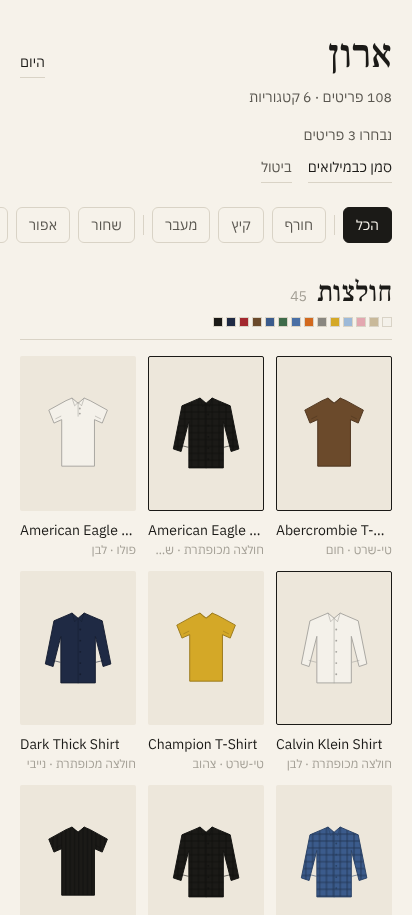
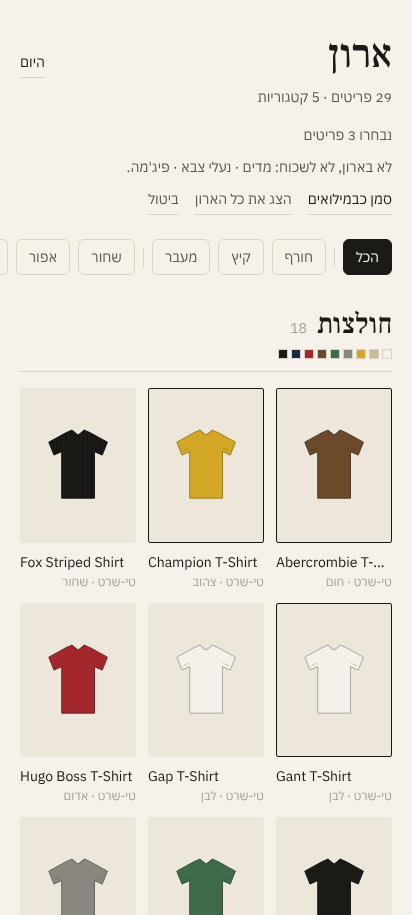
Send worn items to the laundry by wear count, and focus the reserve picker
Migration 0003 adds items.washed_at and wear_counts_since_wash(); each kind of
garment goes to the wash after its own number of wears (config.ts).

Claude-Session: https://claude.ai/code/session_01HdCAWD43ESY6bThfPpJQDs

diff --git a/apps/mobile/src/data/useFeedback.ts b/apps/mobile/src/data/useFeedback.ts
@@ -1,5 +1,5 @@
-import { applyPairUpdates, feedbackUpdates, type PairWeights } from "@fit-check/engine";
-import type { CandidateOutfit, WearFeedback } from "@fit-check/schema";
+import { applyPairUpdates, dueForLaundry, feedbackUpdates, type PairWeights } from "@fit-check/engine";
+import type { Availability, CandidateOutfit, Item, WearFeedback } from "@fit-check/schema";
 import { useCallback, useEffect, useMemo, useRef, useState } from "react";
 import type { WardrobeData } from "./wardrobe";
 import type { DayType } from "./dayContext";
@@ -8,8 +8,10 @@ import {
   deleteFeedback,
   EMPTY_HISTORY,
   fetchFeedback,
+  fetchWearCounts,
   recordFeedback,
   savePairWeights,
+  setAvailabilityMany,
   type FeedbackHistory,
   type TodayRecord,
 } from "./feedback";
@@ -19,7 +21,12 @@ export type FeedbackActions = {
   skip: (outfit: CandidateOutfit, source: "daily" | "swap") => Promise<void>;
   dislike: (record: TodayRecord) => Promise<void>;
   undo: (record: TodayRecord) => Promise<void>;
+  /** Overrides the automatic laundry move: the items stay home and keep their wear count. */
+  keepHome: (itemIds: string[]) => Promise<void>;
 };
+
+/** Items the last "wearing" sent to the laundry, so Today can name them and offer to keep them home. */
+export type Laundered = { wearId: string; itemIds: string[] };
 
 export type FeedbackState = {
   /** null until the first load lands; Today waits for it so a worn outfit never flashes as a fresh suggestion. */
@@ -27,6 +34,7 @@ export type FeedbackState = {
   busy: boolean;
   /** The last action failed; the screen says so and nothing changed. */
   failed: boolean;
+  laundered: Laundered | null;
   actions: FeedbackActions;
 };
 
@@ -43,10 +51,16 @@ export function useFeedback(args: {
   userId: string;
   date: string;
   dayType: DayType;
+  items: Item[];
   pairWeights: PairWeights;
   patch: (fn: (data: WardrobeData) => WardrobeData) => void;
 }): FeedbackState {
-  const { userId, date, dayType, pairWeights, patch } = args;
+  const { userId, date, dayType, items, pairWeights, patch } = args;
+  const [laundered, setLaundered] = useState<Laundered | null>(null);
+  const itemsRef = useRef(items);
+  useEffect(() => {
+    itemsRef.current = items;
+  }, [items]);
   // Stored with the date it belongs to, so a new day reads as "not loaded" without resetting state in an effect.
   const [loaded, setLoaded] = useState<{ date: string; history: FeedbackHistory } | null>(null);
   const history = loaded?.date === date ? loaded.history : null;
@@ -96,6 +110,28 @@ export function useFeedback(args: {
     [userId, patch]
   );
 
+  const move = useCallback(
+    async (ids: string[], next: Availability) => {
+      if (ids.length === 0) return;
+      await setAvailabilityMany(ids, next);
+      const set = new Set(ids);
+      patch((d) => ({ ...d, items: d.items.map((i) => (set.has(i.id) ? { ...i, availability: next } : i)) }));
+    },
+    [patch]
+  );
+
+  /** After a wear: whatever reached its wash count goes to the laundry (engine dueForLaundry, config per kind). */
+  const launder = useCallback(
+    async (record: TodayRecord) => {
+      const counts = await fetchWearCounts(record.itemIds);
+      const worn = itemsRef.current.filter((i) => record.itemIds.includes(i.id));
+      const due = dueForLaundry(worn, counts).map((i) => i.id);
+      await move(due, "laundry");
+      setLaundered(due.length > 0 ? { wearId: record.wearId, itemIds: due } : null);
+    },
+    [move]
+  );
+
   const run = useCallback(async (fn: () => Promise<void>) => {
     setBusy(true);
     setFailed(false);
@@ -120,6 +156,8 @@ export function useFeedback(args: {
           }));
           // The wear is stored even if learning fails; the weights are a derived signal, the wear is the fact.
           await learn(record.itemIds, "worn", 1);
+          // A failed laundry move is logged, not shown: the wear itself succeeded and the user can move items by hand.
+          await launder(record).catch((error: unknown) => console.error("Automatic laundry failed", error));
         }),
       skip: (outfit, source) =>
         run(async () => {
@@ -144,10 +182,20 @@ export function useFeedback(args: {
             };
           });
           if (record.feedback !== "skipped") await learn(record.itemIds, record.feedback, -1);
+          // Undoing the wear undoes its laundry move too; the wash count is right again because the wear is gone.
+          if (laundered?.wearId === record.wearId) {
+            await move(laundered.itemIds, "home");
+            setLaundered(null);
+          }
+        }),
+      keepHome: (itemIds) =>
+        run(async () => {
+          await move(itemIds, "home");
+          setLaundered(null);
         }),
     }),
-    [run, learn, setHistory, userId, date, dayType]
+    [run, learn, launder, move, laundered, setHistory, userId, date, dayType]
   );
 
-  return { history, busy, failed, actions };
+  return { history, busy, failed, laundered, actions };
 }

diff --git a/apps/mobile/src/features/wardrobe/WardrobeView.tsx b/apps/mobile/src/features/wardrobe/WardrobeView.tsx
@@ -6,7 +6,7 @@ import { useSafeAreaInsets } from "react-native-safe-area-context";
 import { TextAction } from "../../components/TextAction";
 import { TextLink } from "../../components/TextLink";
 import { FilterChips } from "./FilterChips";
-import { applyFilters, deriveFacets, type Facet, type Selection } from "./filters";
+import { applyFilters, deriveFacets, isReserveItem, type Facet, type Selection } from "./filters";
 import { WardrobeGrid } from "./WardrobeGrid";
 import { layout } from "../../theme/tokens";
 
@@ -28,6 +28,7 @@ export function WardrobeView({ all, onMove }: { all: Item[]; onMove?: (ids: stri
   const [packing, setPacking] = useState(false);
   const [picked, setPicked] = useState<ReadonlySet<string>>(new Set());
   const [busy, setBusy] = useState(false);
+  const [packAll, setPackAll] = useState(false);
   const [failed, setFailed] = useState(false);
   const away = useMemo(() => all.filter((i) => i.availability === "away").map((i) => i.id), [all]);
 
@@ -52,6 +53,7 @@ export function WardrobeView({ all, onMove }: { all: Item[]; onMove?: (ids: stri
     });
   const stopPacking = () => {
     setPacking(false);
+    setPackAll(false);
     setPicked(new Set());
   };
   const insets = useSafeAreaInsets();
@@ -59,7 +61,10 @@ export function WardrobeView({ all, onMove }: { all: Item[]; onMove?: (ids: stri
   const [selection, setSelection] = useState<Selection>({});
 
   const facets = useMemo(() => deriveFacets(all), [all]);
-  const visible = useMemo(() => applyFilters(all, selection), [all, selection]);
+  const visible = useMemo(() => {
+    const filtered = applyFilters(all, selection);
+    return packing && !packAll ? filtered.filter(isReserveItem) : filtered;
+  }, [all, selection, packing, packAll]);
   const columns = width >= WIDE_BREAKPOINT ? 5 : 3;
   const groupCount = useMemo(() => new Set(visible.map((i) => i.tags.category)).size, [visible]);
 
@@ -93,11 +98,17 @@ export function WardrobeView({ all, onMove }: { all: Item[]; onMove?: (ids: stri
                   <Text className="font-body text-body-sm text-ink-soft">
                     {picked.size > 0 ? t("wardrobe.reserve.picked", { count: picked.size, n: ltr(picked.size) }) : t("wardrobe.reserve.pickHint")}
                   </Text>
+                  <Text className="font-body text-body-sm text-ink-soft">{t("wardrobe.reserve.notInWardrobe")}</Text>
                   <View className="flex-row flex-wrap" style={{ columnGap: 16, rowGap: 8 }}>
                     <TextAction
                       label={t("wardrobe.reserve.confirm")}
                       disabled={busy || picked.size === 0}
                       onPress={() => run([...picked], "away", stopPacking)}
+                    />
+                    <TextAction
+                      label={packAll ? t("wardrobe.reserve.showUsual") : t("wardrobe.reserve.showAll")}
+                      quiet
+                      onPress={() => setPackAll((v) => !v)}
                     />
                     <TextAction label={t("wardrobe.reserve.cancel")} quiet disabled={busy} onPress={stopPacking} />
                   </View>

diff --git a/apps/mobile/src/data/feedback.ts b/apps/mobile/src/data/feedback.ts
@@ -1,5 +1,6 @@
 import { RECENT_WEARS_DAYS, type PairUpdate } from "@fit-check/engine";
 import { WEAR_READ_COLUMNS, WearRowSchema, type Availability, type CandidateOutfit, type StylingRequest, type WearFeedback } from "@fit-check/schema";
+import { z } from "zod";
 import { supabase } from "../lib/supabase";
 import type { DayType } from "./dayContext";
 
@@ -127,18 +128,35 @@ export async function savePairWeights(userId: string, updates: readonly PairUpda
   if (error) throw error;
 }
 
+/**
+ * `washed`: the item came back clean, so its wear count restarts (items.washed_at). Not set when the user only
+ * overrides an automatic laundry move ("השאר בבית"): that garment was not washed and its count must keep going.
+ */
+type MoveOptions = { washed?: boolean };
+
+const moveRow = (availability: Availability, { washed = false }: MoveOptions) =>
+  washed ? { availability, washed_at: new Date().toISOString() } : { availability };
+
 /** Home, laundry, away (reserve duty) or lent. Only `home` items are ever suggested. */
-export async function setAvailability(itemId: string, availability: Availability): Promise<void> {
-  const { error } = await supabase.from("items").update({ availability }).eq("id", itemId);
+export async function setAvailability(itemId: string, availability: Availability, options: MoveOptions = {}): Promise<void> {
+  const { error } = await supabase.from("items").update(moveRow(availability, options)).eq("id", itemId);
   if (error) throw error;
+}
+
+/** Worn wears per item since its last wash (SQL function wear_counts_since_wash, migration 0003; RLS applies). */
+export async function fetchWearCounts(itemIds: readonly string[]): Promise<Map<string, number>> {
+  const { data, error } = await supabase.rpc("wear_counts_since_wash", { p_item_ids: [...itemIds] });
+  if (error) throw error;
+  const parsed = z.array(z.object({ item_id: z.string(), wears: z.number().int() })).parse(data ?? []);
+  return new Map(parsed.map((r) => [r.item_id, r.wears]));
 }
 
 /**
  * Moves several items at once (packing for reserve duty, coming back). One request, so the move is all or nothing
  * from the user's side: either every packed item reads "away" or the screen reports the failure.
  */
-export async function setAvailabilityMany(itemIds: readonly string[], availability: Availability): Promise<void> {
+export async function setAvailabilityMany(itemIds: readonly string[], availability: Availability, options: MoveOptions = {}): Promise<void> {
   if (itemIds.length === 0) return;
-  const { error } = await supabase.from("items").update({ availability }).in("id", [...itemIds]);
+  const { error } = await supabase.from("items").update(moveRow(availability, options)).in("id", [...itemIds]);
   if (error) throw error;
 }

diff --git a/apps/mobile/src/features/today/TodayView.tsx b/apps/mobile/src/features/today/TodayView.tsx
@@ -11,7 +11,7 @@ import { ItemArt } from "../../components/item-art/ItemArt";
 import { ActionSheet, type Adjust } from "./ActionSheet";
 import type { DayContext } from "../../data/dayContext";
 import type { FeedbackHistory } from "../../data/feedback";
-import type { FeedbackActions } from "../../data/useFeedback";
+import type { FeedbackActions, Laundered } from "../../data/useFeedback";
 import { explainOutfit } from "./explain";
 import { planToday, type Swaps } from "./outfit";
 import { OutfitComposition, outfitIndex, SLOT_ORDER } from "./OutfitComposition";
@@ -37,6 +37,7 @@ type Props = {
   actions: FeedbackActions;
   busy: boolean;
   failed: boolean;
+  laundered?: Laundered | null;
 };
 
 /** "Warmer", or "Warmer ×2" after two taps; null when that direction was not tapped. */
@@ -49,7 +50,7 @@ const ADJUST: Record<Adjust, DayAdjustment> = {
   casual: { temp_steps: 0, formality_steps: -1 },
 };
 
-export function TodayView({ items, pairWeights, day, history, actions, busy, failed }: Props) {
+export function TodayView({ items, pairWeights, day, history, actions, busy, failed, laundered }: Props) {
   const { t, i18n } = useTranslation();
   const router = useRouter();
   const insets = useSafeAreaInsets();
@@ -109,6 +110,18 @@ export function TodayView({ items, pairWeights, day, history, actions, busy, fai
     if (plan.kind === "worn") {
       const record = plan.record;
       lines.push({ key: "worn", text: t("today.status.worn"), links: [{ label: t("today.undo"), onPress: () => void actions.undo(record) }] });
+      if (laundered && laundered.wearId === record.wearId) {
+        const ids = laundered.itemIds;
+        const names = ids.map((id) => {
+          const sub = items.find((i) => i.id === id)?.tags.subcategory;
+          return sub ? t(`item.subcategory.${sub}`) : "";
+        });
+        lines.push({
+          key: "laundry",
+          text: t("today.status.laundry", { items: names.filter(Boolean).join(", ") }),
+          links: [{ label: t("today.keepHome"), onPress: () => void actions.keepHome(ids) }],
+        });
+      }
     }
     if (lastSkip) {
       const record = lastSkip;

diff --git a/packages/engine/src/laundry.test.ts b/packages/engine/src/laundry.test.ts
@@ -1,0 +1,36 @@
+import { describe, expect, it } from "vitest";
+import { ItemSchema, type Item } from "@fit-check/schema";
+import wardrobeJson from "../__fixtures__/wardrobe.json";
+import { dueForLaundry } from "./laundry";
+
+const wardrobe: Item[] = (wardrobeJson as unknown[]).map((row) => ItemSchema.parse(row));
+const first = (sub: string) => wardrobe.find((i) => i.tags.subcategory === sub)!;
+
+describe("dueForLaundry", () => {
+  const tee = first("tshirt");
+  const shirt = first("button_down");
+  const jeans = first("jeans");
+  const shoes = first("sneakers");
+
+  it("sends a T-shirt after one wear but keeps jeans and a button-down", () => {
+    const counts = new Map([[tee.id, 1], [shirt.id, 1], [jeans.id, 1]]);
+    expect(dueForLaundry([tee, shirt, jeans], counts).map((i) => i.id)).toEqual([tee.id]);
+  });
+
+  it("sends a button-down on its third wear and jeans on their sixth", () => {
+    expect(dueForLaundry([shirt], new Map([[shirt.id, 2]]))).toEqual([]);
+    expect(dueForLaundry([shirt], new Map([[shirt.id, 3]]))).toEqual([shirt]);
+    expect(dueForLaundry([jeans], new Map([[jeans.id, 5]]))).toEqual([]);
+    expect(dueForLaundry([jeans], new Map([[jeans.id, 6]]))).toEqual([jeans]);
+  });
+
+  it("never sends shoes, and treats a missing count as zero", () => {
+    expect(dueForLaundry([shoes], new Map([[shoes.id, 50]]))).toEqual([]);
+    expect(dueForLaundry([tee], new Map())).toEqual([]);
+  });
+
+  it("leaves items that are not at home where they are", () => {
+    const away = { ...tee, availability: "away" as const };
+    expect(dueForLaundry([away], new Map([[tee.id, 3]]))).toEqual([]);
+  });
+});

diff --git a/apps/mobile/src/features/wardrobe/filters.ts b/apps/mobile/src/features/wardrobe/filters.ts
@@ -54,3 +54,13 @@ export function groupByCategory(items: Item[]): Array<{ category: (typeof CATEGO
     items: items.filter((i) => i.tags.category === category).sort((a, b) => a.name.localeCompare(b.name) || a.id.localeCompare(b.id)),
   })).filter((g) => g.items.length > 0);
 }
+
+/**
+ * What usually goes to reserve duty (Roy, 2026-11-08): T-shirts, sportswear, slides. The picker shows these first;
+ * the rest of the wardrobe is one tap away. Uniform, army boots and pyjamas are not wardrobe items (not in the
+ * tag schema) and appear as a reminder line instead.
+ */
+export function isReserveItem(item: Item): boolean {
+  const { subcategory, style_tags } = item.tags;
+  return subcategory === "tshirt" || subcategory === "sandals" || style_tags.includes("sport");
+}

diff --git a/packages/engine/src/laundry.ts b/packages/engine/src/laundry.ts
@@ -1,0 +1,14 @@
+import type { Item } from "@fit-check/schema";
+import { LAUNDRY_AFTER_WEARS } from "./config";
+
+/**
+ * Items that should go to the wash, given how many times each was worn since its last wash (including the wear
+ * just logged). Only items currently at home move: one already in the laundry, away or lent is left alone.
+ * Ids missing from `wearCounts` are treated as zero wears, never as due.
+ */
+export function dueForLaundry(items: readonly Item[], wearCounts: ReadonlyMap<string, number>): Item[] {
+  return items.filter((item) => {
+    const limit = LAUNDRY_AFTER_WEARS[item.tags.subcategory];
+    return item.availability === "home" && limit !== undefined && (wearCounts.get(item.id) ?? 0) >= limit;
+  });
+}

diff --git a/apps/mobile/src/app/index.tsx b/apps/mobile/src/app/index.tsx
@@ -36,7 +36,7 @@ function Today(props: {
   day: DayContext;
 }) {
   const { userId, items, pairWeights, patch, day } = props;
-  const feedback = useFeedback({ userId, date: day.date, dayType: day.dayType, pairWeights, patch });
+  const feedback = useFeedback({ userId, date: day.date, dayType: day.dayType, items, pairWeights, patch });
   // Wait for today's answers so an outfit already marked worn never flashes as a fresh suggestion.
   if (!feedback.history) return <WardrobeGate state={{ status: "loading" }} />;
   return (
@@ -48,6 +48,7 @@ function Today(props: {
       actions={feedback.actions}
       busy={feedback.busy}
       failed={feedback.failed}
+      laundered={feedback.laundered}
     />
   );
 }

diff --git a/packages/engine/src/config.ts b/packages/engine/src/config.ts
@@ -32,6 +32,22 @@ export const FEEDBACK = {
  */
 export const ADJUST_STEP = { temp_c: 3, formality: 1 } as const;
 
+/**
+ * Wears before a garment goes to the wash (Roy's rules, 2026-11-08). Counted since the item's last wash.
+ * Button-downs get 3 because they are worn over an undershirt. Missing kinds (shoes, outerwear, belts) never go.
+ */
+export const LAUNDRY_AFTER_WEARS: Partial<Record<Subcategory, number>> = {
+  tshirt: 1,
+  polo: 1,
+  button_down: 3,
+  shorts: 2,
+  sweatshirt: 3,
+  knit: 4,
+  chinos: 4,
+  trousers: 4,
+  jeans: 6,
+};
+
 /** How far back worn outfits are read for freshness (RECENCY windows are inside this). */
 export const RECENT_WEARS_DAYS = 21;
 

diff --git a/apps/mobile/src/app/wardrobe.tsx b/apps/mobile/src/app/wardrobe.tsx
@@ -15,7 +15,8 @@ export default function Wardrobe() {
     const before = new Map(items.filter((i) => ids.includes(i.id)).map((i) => [i.id, i.availability]));
     patch((d) => ({ ...d, items: d.items.map((i) => (before.has(i.id) ? { ...i, availability: next } : i)) }));
     try {
-      await setAvailabilityMany(ids, next);
+      // The only bulk move home is "back from base, all clean", so it resets the wear counts.
+      await setAvailabilityMany(ids, next, { washed: next === "home" });
     } catch (error) {
       patch((d) => ({ ...d, items: d.items.map((i) => ({ ...i, availability: before.get(i.id) ?? i.availability })) }));
       throw error;

diff --git a/apps/mobile/src/app/item/[id].tsx b/apps/mobile/src/app/item/[id].tsx
@@ -44,7 +44,8 @@ export default function ItemScreen() {
     const set = (a: Availability) => patch((d) => ({ ...d, items: d.items.map((i) => (i.id === itemId ? { ...i, availability: a } : i)) }));
     set(next);
     try {
-      await setAvailability(itemId, next);
+      // Back home from the laundry or from base means it was washed: its wear count starts over.
+      await setAvailability(itemId, next, { washed: next === "home" && (prev === "laundry" || prev === "away") });
     } catch (error) {
       set(prev);
       throw error;

diff --git a/packages/engine/src/index.ts b/packages/engine/src/index.ts
@@ -6,3 +6,4 @@ export * from "./weather";
 export * from "./feedback";
 export * from "./adjust";
 export * from "./swap";
+export * from "./laundry";
